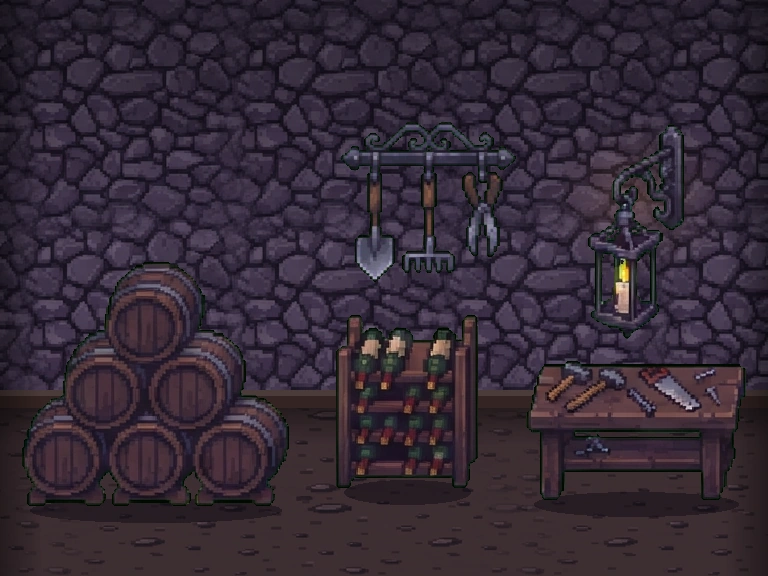
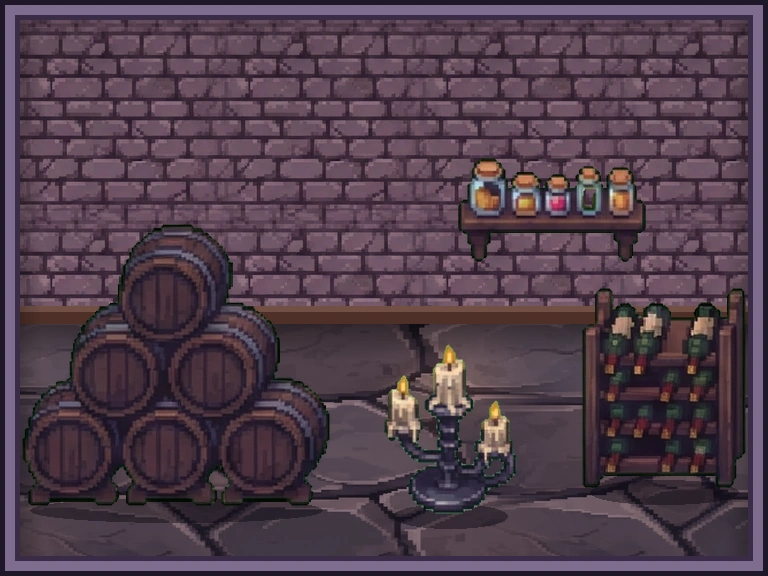
Stanze della Rocca più simili alla sezione: muri a mattoni lilla, pavimenti grandi e luminosi, mobili più grandi, cornice lilla
Claude-Session: https://claude.ai/code/session_0172XSwwqtzYGYUizC6FgUXo

diff --git a/tools/dimore/modulare/componi.py b/tools/dimore/modulare/componi.py
@@ -13,7 +13,8 @@ import numpy as np
 from PIL import Image, ImageDraw
 
 DIR = os.path.dirname(os.path.abspath(__file__))
-H, MURO, BATT = 96, 68, 3          # altezza stanza, riga dove finisce il muro, spessore battiscopa (pixel del disegno)
+H, BATT = 96, 3
+MURO = 68         # altezza stanza, riga dove finisce il muro, spessore battiscopa (pixel del disegno)
 Q = int(os.environ.get("Q", 6))     # pixel dell'immagine per pixel del disegno
 POSTI = os.environ.get("POSTI", "0") == "1"
 RELIQUIA = (18, 20)                 # posto a terra (larghezza, altezza) per una reliquia
@@ -72,7 +73,8 @@ def muro(n, alto):
     return senza_giunture(t, True, True)
 
 
-def pavimento(n, w=96, h=30, **g):
+def pavimento(n, w=96, h=None, **g):
+    h = h or max(30, H - MURO)
     t = carica(f"materiali/pavimenti_{n}.png").resize((S(w), S(h)), Image.LANCZOS)   # schiacciato in verticale: sembra a terra
     t = senza_giunture(t, True, False)
     return grade(t, **g) if CFG["gradare"] else t
@@ -145,11 +147,30 @@ def sfondo(W, r):
     # luce: ombra dal soffitto (non all'aperto), ombra del muro sul pavimento, bordi della sezione
     a = np.array(img).astype(float); y = (np.arange(S(H))[:, None] + .5) / Q; ombra = np.ones((S(H), 1)); lm = CFG["luce_min"]
     m = S(MURO)
+    if CFG.get("muro_gain") and not bordo: a[:m, :, :3] *= np.array(CFG["muro_gain"])
     if not bordo: ombra[:m] *= (lm + (1 - lm) * np.clip(y[:m] / (MURO * 0.55), 0, 1))
     ombra[m:] *= (0.62 + 0.38 * np.clip((y[m:] - MURO) / 6, 0, 1))
     x = (np.arange(S(W))[None, :] + .5) / Q; lati = 0.6 + 0.4 * np.clip(np.minimum(x, W - x) / 7, 0, 1)
     a[..., :3] *= (ombra * lati)[..., None]
-    return Image.fromarray(a.clip(0, 255).astype(np.uint8), "RGBA")
+    img = Image.fromarray(a.clip(0, 255).astype(np.uint8), "RGBA")
+    if CFG.get("cornice_stanza"): cornice_stanza(img)
+    return img
+
+
+def cornice_stanza(img):
+    """Cornice lilla della stanza, come nella sezione: filo scuro fuori, fascia lilla, ombra dentro."""
+    d = ImageDraw.Draw(img); w, h = img.size
+    spess = [(S(.8), (30, 22, 38, 255)), (S(1.7), (126, 108, 142, 255)), (S(.9), (58, 44, 72, 255))]
+    o = 0
+    for t, col in spess:
+        d.rectangle((o, o, w - 1 - o, h - 1 - o), outline=col, width=t); o += t
+
+
+
+def ingrandisci(im):
+    """Nella sezione i mobili sono più grandi rispetto alla stanza: CFG['scala'] li ingrandisce tutti (nitidi: i pezzi sono già ad alta risoluzione)."""
+    k = CFG.get("scala", 1)
+    return im if k == 1 else im.resize((round(im.width * k), round(im.height * k)), Image.LANCZOS)
 
 
 def pezzo(nome):
@@ -157,8 +178,8 @@ def pezzo(nome):
         ps = [carica(f"pezzi/{n}.png") for n in nome]
         g = Image.new("RGBA", (sum(p.width for p in ps) + (len(ps) - 1) * Q, max(p.height for p in ps))); x = 0
         for p in ps: g.alpha_composite(p, (x, g.height - p.height)); x += p.width + Q
-        return Pz(g)
-    return Pz(carica(f"pezzi/{nome}.png"))
+        return Pz(ingrandisci(g))
+    return Pz(ingrandisci(carica(f"pezzi/{nome}.png")))
 
 
 def appoggia(img, p, cx, base, ombra=True):
@@ -335,11 +356,31 @@ DIMORE = {
 }
 
 
+# ----------------------------------------------------------------------------------------------------------------
+# Aspetto "come la sezione": muri a mattoni lilla di tono medio, pavimenti grandi e luminosi (parquet arancione, ciottoli
+# grigio-lilla, piastrelle chiare nel bagno). Il campione di colore viene dai pavimenti/muri della sezione (img/castello.webp).
+# ----------------------------------------------------------------------------------------------------------------
+LEGNO = dict(sat=1.0, mult=(.70, .60, .52), luce=1.0)
+CIOTTOLI = dict(sat=.6, mult=(1.2, 1.14, 1.34), luce=1.0)
+PIASTRELLE = dict(sat=.5, mult=(1.72, 1.82, 2.2), luce=1.0)
+SCURO = dict(sat=.6, mult=(1.0, .94, 1.12), luce=.95)
+if os.environ.get("RIF", "1") == "1":
+    DIMORE["castello"]["muro_gain"] = (1.5, 1.34, 1.2); DIMORE["castello"]["luce_min"] = .9; DIMORE["castello"]["scala"] = float(os.environ.get("SC", 1.15)); DIMORE["castello"]["cornice_stanza"] = True; DIMORE["castello"]["muro_riga"] = 54
+    for _n, _r in STANZE_CASTELLO.items():
+        if _n in ("balcone", "terrazzo", "giardino"): continue
+        _r["m_alto"] = (1, 40); _r.pop("m_basso", None); _r.pop("fascia", None)
+    for _n, _p, _g in (("soggiorno", 1, LEGNO), ("camera", 1, LEGNO), ("studio", 1, LEGNO), ("cucina_soggiorno", 1, LEGNO),
+                       ("cucina", 5, CIOTTOLI), ("corridoio", 5, CIOTTOLI), ("ingresso", 5, CIOTTOLI), ("lavanderia", 5, CIOTTOLI),
+                       ("bagno", 5, PIASTRELLE), ("ripostiglio", 4, SCURO), ("cantina", 4, SCURO)):
+        STANZE_CASTELLO[_n]["pav"] = (_p,); STANZE_CASTELLO[_n]["pav_g"] = _g
+
+
 def usa(dimora):
     """Sceglie la dimora su cui lavorare (cartella con pezzi/, materiali/, fregi/)."""
-    global BASE, CFG
+    global BASE, CFG, MURO
     global GLOBALI
     BASE = os.path.join(DIR, dimora); CFG = DIMORE[dimora]; GLOBALI = {}
+    MURO = int(os.environ.get("MURO", CFG.get("muro_riga", 68)))
     return CFG["stanze"]
 
 
